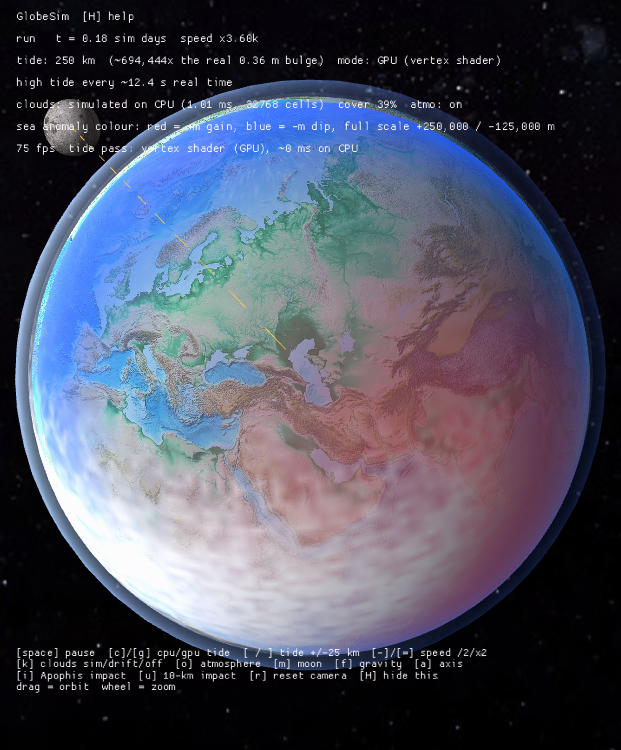
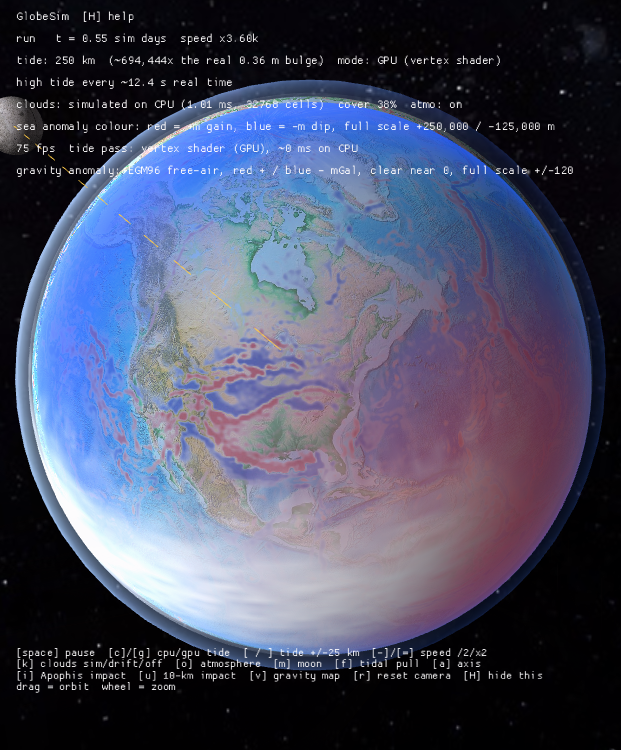
Overlay EGM96 gravity anomaly map on the globe
Bake the sea-level free-air gravity anomaly into a 1440x720 texture from
the degree-360 EGM96 spherical harmonics (EGM96 + CORRCOEF, public domain
via GeographicLib) using the Holmes & Featherstone fully-normalised
recursion evaluated on the WGS84 ellipsoid; the same baker reproduces the
NGA official geoid grid (WW15MGH) with correlation 0.9999 as validation.

The overlay is a 1.0003 shell drawn over the ground and under the water,
co-rotating with the earth; alpha follows colormap saturation so near-zero
anomalies stay transparent. Toggle with V (--no-anomaly to start off).
Also raise draw_call_index_capacity for the finer anomaly grid.

diff --git a/src/main.rs b/src/main.rs
@@ -19,8 +19,8 @@ use sphere::SphereGrid;
 use tide::{TideMode, TideOcean};
 
 use shaders::{
-    ATMO_FS, ATMO_VS, CLOUD_FS, CLOUD_VS, GLOW_FS, GLOW_VS, LAMBERT_FS, LAMBERT_VS, SKY_FS,
-    SKY_VS, WATER_FS, WATER_VS,
+    ATMO_FS, ATMO_VS, CLOUD_FS, CLOUD_VS, GLOW_FS, GLOW_VS, GRAVITY_FS, GRAVITY_VS, LAMBERT_FS,
+    LAMBERT_VS, SKY_FS, SKY_VS, WATER_FS, WATER_VS,
 };
 
 pub enum CloudMode {
@@ -45,8 +45,9 @@ fn window_conf() -> macroquad::conf::Conf {
         },
         // macroquad batches geometry into single draw calls; its defaults
         // (10k verts / 5k indices) are far below one u16 batch, so raise them.
+        // The anomaly shell needs ~86k indices (index *values* still fit u16).
         draw_call_vertex_capacity: 65535,
-        draw_call_index_capacity: 65535,
+        draw_call_index_capacity: 131070,
         ..Default::default()
     }
 }
@@ -195,6 +196,7 @@ struct Sim {
     show_help: bool,
     cloud_mode: CloudMode,
     show_atmo: bool,
+    show_anomaly: bool,
     /// Longitude offset for GPU cloud-drift mode (fraction of full circle).
     cloud_drift: f32,
 }
@@ -207,6 +209,7 @@ async fn main() {
     let earth_tex = load_rgba_texture("assets/textures/earth_topography_3840.jpg");
     let moon_tex = load_rgba_texture("assets/textures/moon_2k.jpg");
     let stars_tex = load_rgba_texture("assets/textures/stars_milky_way_2k.jpg");
+    let gravity_tex = load_rgba_texture("assets/textures/gravity_anomaly.jpg");
 
     // --- materials ----------------------------------------------------------
     let lambert_params = |extra: Vec<UniformDesc>| MaterialParams {
@@ -274,6 +277,33 @@ async fn main() {
                 UniformDesc::new("u_gpu", UniformType::Float1),
                 UniformDesc::new("u_base_r", UniformType::Float1),
                 UniformDesc::new("u_anom_scale", UniformType::Float1),
+            ],
+            textures: Vec::new(),
+        },
+    )
+    .unwrap();
+
+    // Gravity anomaly overlay: alpha-blended shell just above the ground
+    // (radius set on the mesh), co-rotating with the earth.
+    let gravity_mat = load_material(
+        ShaderSource::Glsl {
+            vertex: GRAVITY_VS,
+            fragment: GRAVITY_FS,
+        },
+        MaterialParams {
+            pipeline_params: PipelineParams {
+                cull_face: CullFace::Back,
+                color_blend: Some(BlendState::new(
+                    Equation::Add,
+                    BlendFactor::Value(BlendValue::SourceAlpha),
+                    BlendFactor::OneMinusValue(BlendValue::SourceAlpha),
+                )),
+                ..Default::default()
+            },
+            uniforms: vec![
+                UniformDesc::new("u_model", UniformType::Mat4),
+                UniformDesc::new("u_light_dir", UniformType::Float3),
+                UniformDesc::new("u_alpha", UniformType::Float1),
             ],
             textures: Vec::new(),
         },
@@ -434,6 +464,14 @@ async fn main() {
         slices: 64,
     }
     .mesh(ATMO_SHELL_RADIUS, None);
+    // Anomaly shell: sits between ground (1.0) and water (1.0005); finer grid
+    // than the earth so the 1440x720 anomaly texture stays crisp. 81 x 181
+    // verts, 86 400 indices — fits the raised draw-call capacities above.
+    let gravity_mesh = SphereGrid {
+        rings: 80,
+        slices: 180,
+    }
+    .mesh(1.0003, Some(gravity_tex));
     let glow_mesh = SphereGrid {
         rings: 16,
         slices: 32,
@@ -442,7 +480,7 @@ async fn main() {
 
     // --- simulation state ------------------------------------------------------
     // Small CLI conveniences for benchmarking/screenshots: --cpu, --tide=<km>,
-    // --clouds=off|drift, --impact=apophis|chicxulub.
+    // --clouds=off|drift, --impact=apophis|chicxulub, --no-anomaly.
     let args: Vec<String> = std::env::args().collect();
     let tide_km = args
         .iter()
@@ -469,6 +507,7 @@ async fn main() {
         .iter()
         .find_map(|a| a.strip_prefix("--impact="))
         .map(|s| if s == "chicxulub" { CHICXULUB } else { APHOPIS });
+    let anomaly_on = !args.iter().any(|a| a == "--no-anomaly");
 
     let mut sim = Sim {
         running: true,
@@ -482,6 +521,7 @@ async fn main() {
         show_help: true,
         cloud_mode,
         show_atmo: true,
+        show_anomaly: anomaly_on,
         cloud_drift: 0.0,
     };
     let mut cam = OrbitCam::new();
@@ -588,6 +628,9 @@ async fn main() {
         if is_key_pressed(KeyCode::U) {
             spawn_rock = Some(CHICXULUB);
         }
+        if is_key_pressed(KeyCode::V) {
+            sim.show_anomaly = !sim.show_anomaly;
+        }
         cam.handle_input();
 
         if sim.running {
@@ -665,6 +708,16 @@ async fn main() {
         earth_mat.set_uniform("u_light_dir", sun_dir());
         gl_use_material(&earth_mat);
         draw_mesh(&earth_mesh);
+
+        // gravity anomaly map — EGM96 free-air overlay, co-rotating with the
+        // ground, transparent where the anomaly is near zero
+        if sim.show_anomaly {
+            gravity_mat.set_uniform("u_model", earth_model);
+            gravity_mat.set_uniform("u_light_dir", sun_dir());
+            gravity_mat.set_uniform("u_alpha", 0.9f32);
+            gl_use_material(&gravity_mat);
+            draw_mesh(&gravity_mesh);
+        }
 
         // ocean — CPU pass displaces the mesh in Rust, GPU pass in the shader;
         // both fold in the tsunami crest ring, both feed the red/blue anomaly
@@ -926,6 +979,12 @@ async fn main() {
                 }
             ),
         ];
+        if sim.show_anomaly {
+            lines.push(
+                "gravity anomaly: EGM96 free-air, red + / blue - mGal, clear near 0, full scale +/-120"
+                    .to_string(),
+            );
+        }
         if let Some(im) = &impact {
             let s = &im.stats;
             lines.push(format!(
@@ -953,8 +1012,8 @@ async fn main() {
         if sim.show_help {
             draw_multiline_text(
                 "[space] pause  [c]/[g] cpu/gpu tide  [ / ] tide +/-25 km  [-]/[=] speed /2/x2\n\
-                 [k] clouds sim/drift/off  [o] atmosphere  [m] moon  [f] gravity  [a] axis\n\
-                 [i] Apophis impact  [u] 10-km impact  [r] reset camera  [H] hide this\n\
+                 [k] clouds sim/drift/off  [o] atmosphere  [m] moon  [f] tidal pull  [a] axis\n\
+                 [i] Apophis impact  [u] 10-km impact  [v] gravity map  [r] reset camera  [H] hide this\n\
                  drag = orbit  wheel = zoom",
                 16.0,
                 screen_height() - 94.0,

diff --git a/src/shaders.rs b/src/shaders.rs
@@ -127,6 +127,51 @@ void main() {
 }
 "#;
 
+// Gravity anomaly overlay: EGM96 sea-level free-air map wrapped onto a shell
+// just above the ground. Alpha follows the colormap's colour saturation, so
+// near-zero anomalies stay transparent and only the strong features paint.
+pub const GRAVITY_VS: &str = r#"#version 100
+attribute vec3 position;
+attribute vec2 texcoord;
+attribute vec4 color0;
+attribute vec4 normal;
+
+uniform mat4 Projection;
+uniform mat4 u_model;
+
+varying vec2 v_uv;
+varying vec3 v_normal;
+
+void main() {
+    v_uv = texcoord;
+    v_normal = normalize((u_model * vec4(normal.xyz, 0.0)).xyz);
+    gl_Position = Projection * u_model * vec4(position, 1.0);
+}
+"#;
+
+pub const GRAVITY_FS: &str = r#"#version 100
+precision mediump float;
+
+varying vec2 v_uv;
+varying vec3 v_normal;
+
+uniform sampler2D Texture;
+uniform vec3 u_light_dir;
+uniform float u_alpha;
+
+void main() {
+    vec4 tex = texture2D(Texture, v_uv);
+    float lambert = max(dot(normalize(v_normal), u_light_dir), 0.0);
+    // The baker's diverging colormap grows more colourful with anomaly
+    // strength; channel spread measures that strength without decoding it.
+    float mx = max(max(tex.r, tex.g), tex.b);
+    float mn = min(min(tex.r, tex.g), tex.b);
+    float a = u_alpha * smoothstep(0.04, 0.35, mx - mn);
+    vec3 c = tex.rgb * (0.25 + 0.85 * lambert);
+    gl_FragColor = vec4(c, a);
+}
+"#;
+
 // Unlit tinted shell for impact flash / plume / dust haze (u_color rgba).
 pub const GLOW_VS: &str = r#"#version 100
 attribute vec3 position;

diff --git a/README.md b/README.md
@@ -31,6 +31,7 @@ cargo run --release -- --tide=600     # start with a 600 km bulge
 cargo run --release -- --clouds=off   # start with the cloud deck off
 cargo run --release -- --impact=apophis    # Apophis-class strike once framing settles
 cargo run --release -- --impact=chicxulub  # 10-km killer for scale
+cargo run --release -- --no-anomaly        # start with the gravity anomaly map off
 cargo test                            # unit tests: tide math, CPU mesh, clouds, impact physics
 ```
 
@@ -47,6 +48,7 @@ cargo test                            # unit tests: tide math, CPU mesh, clouds,
 | `o` | atmosphere (scattering glow shell) on/off |
 | `m` | toggle Moon |
 | `f` | toggle dashed gravity vector (Earth ← Moon) |
+| `v` | toggle the gravity anomaly map (EGM96 free-air overlay) |
 | `a` | toggle rotation axis + equator |
 | `i` | Apophis-class impact (340 m, 1 176 Mt) under the camera |
 | `u` | Chicxulub-class impact (10 km, ~75 Gt) under the camera |
@@ -90,6 +92,19 @@ cargo test                            # unit tests: tide math, CPU mesh, clouds,
   paths: the GPU shader colours `tide + tsunami` straight from the formula, the
   CPU pass reads the anomaly back off the displaced mesh. The HUD prints the
   full-scale value in metres.
+- **Gravity anomaly map** (`v`, on by default) — Earth's *own* gravity field
+  painted over the globe: a 1440×720 texture baked offline by a standalone Rust
+  program that synthesises the sea-level (free-air) gravity anomaly from the
+  full **degree-360 EGM96** spherical-harmonic model (EGM96 + CORRCOEF, public
+  domain, distributed by GeographicLib) using the Holmes & Featherstone
+  fully-normalised Legendre recursion — the same algorithm as GeographicLib's
+  `SphericalEngine` — evaluated on the WGS84 ellipsoid. Diverging colormap at
+  ±120 mGal: **red = stronger gravity** (mid-ocean ridges, island arcs, the
+  Himalayan mass excess), **blue = weaker** (ocean trenches, the Hudson Bay
+  glacial-isostatic low); overlay alpha tracks colour saturation, so near-zero
+  regions stay transparent and the terrain shows through. The baker validates
+  itself: the geoid heights from the same coefficients reproduce the official
+  NGA EGM96 geoid grid (WW15MGH) with correlation 0.9999.
 - **Asteroid impacts** (`i` / `u`, or `--impact=`) — an Apophis-class strike
   (340 m, 6.2×10¹⁰ kg, 12.6 km/s → **1 176 Mt**, ~78 000 Hiroshimas) or a
   Chicxulub-class 10 km rock for scale. The console prints a physics briefing
@@ -127,6 +142,17 @@ implements `-v·∇c` but not the `-c∇·v` compression term (the wind field is
 divergence-free), so a global mass fixer restores the conserved total each
 step — the same trick real GCMs use.
 
+The gravity anomaly texture solves the *forward* problem of geodesy: given the
+full Earth gravity field as spherical harmonics (EGM96: 65 341 coefficients to
+degree/order 360, i.e. features down to ~110 km), the sea-level gravity
+anomaly is `Δg(φ,λ) = (1/R)·Σₙ (n−1)·(GM/a)·(a/r)ⁿ⁺¹·Σₘ P̄ₙₘ(sin φ′)·[Cₙₘ cos mλ + Sₙₘ sin mλ]`
+evaluated on the ellipsoid — the radial derivative of the disturbing potential,
+computed with the fully-normalised stable recursion of Holmes & Featherstone
+(2002) and WGS84 normal-gravity subtraction. What it shows is geology: mid-ocean
+ridges read positive (hot, dense mantle upwelling), deep-sea trenches negative
+(cold slab + deep water), and Hudson Bay still negative from the ice age that
+left it ~200 m of mantle depression — isostasy runs on geological time.
+
 An impact is booked from order-of-magnitude scaling laws, shared by the CPU and
 GPU render paths: energy `½mv²` (Apophis: 4.9×10¹⁸ J = 1 176 Mt); transient
 crater diameter from Collins et al. (2005) gravity-regime scaling
@@ -158,7 +184,8 @@ redirects to `web/`).
 ## Texture credits
 
 See [CREDITS.md](CREDITS.md). TL;DR: NOAA ETOPO relief (public domain),
-Solar System Scope Moon & Milky Way (CC BY 4.0).
+Solar System Scope Moon & Milky Way (CC BY 4.0), EGM96 gravity coefficients
+(public domain, via GeographicLib).
 
 ## Roadmap
 

diff --git a/CREDITS.md b/CREDITS.md
@@ -5,6 +5,7 @@
 | `assets/textures/earth_topography_3840.jpg` | NOAA ETOPO Global Relief map, via [Wikimedia Commons](https://commons.wikimedia.org/wiki/File:NOAA_ETOPO_Global_Relief_map.jpg) | Public domain (NOAA) |
 | `assets/textures/moon_2k.jpg` | [Solar System Scope](https://www.solarsystemscope.com/textures/) | CC BY 4.0 |
 | `assets/textures/stars_milky_way_2k.jpg` | [Solar System Scope](https://www.solarsystemscope.com/textures/) | CC BY 4.0 |
+| `assets/textures/gravity_anomaly.jpg` | Baked from the EGM96 gravity model (EGM96 + CORRCOEF coefficient sets, distributed by [GeographicLib](https://geographiclib.sourceforge.io/html/gravity.html)); validated against the NGA official geoid grid WW15MGH | Public domain (NGA/NIMA EGM96 — U.S. government work) |
 | `vendor/three.module.js`, `vendor/addons/controls/OrbitControls.js` | [three.js r169](https://threejs.org) | MIT |
 
 Attribution for CC BY 4.0 assets: *Textures by [Solar System Scope](https://www.solarsystemscope.com/textures/), licensed under [CC BY 4.0](https://creativecommons.org/licenses/by/4.0/).*
